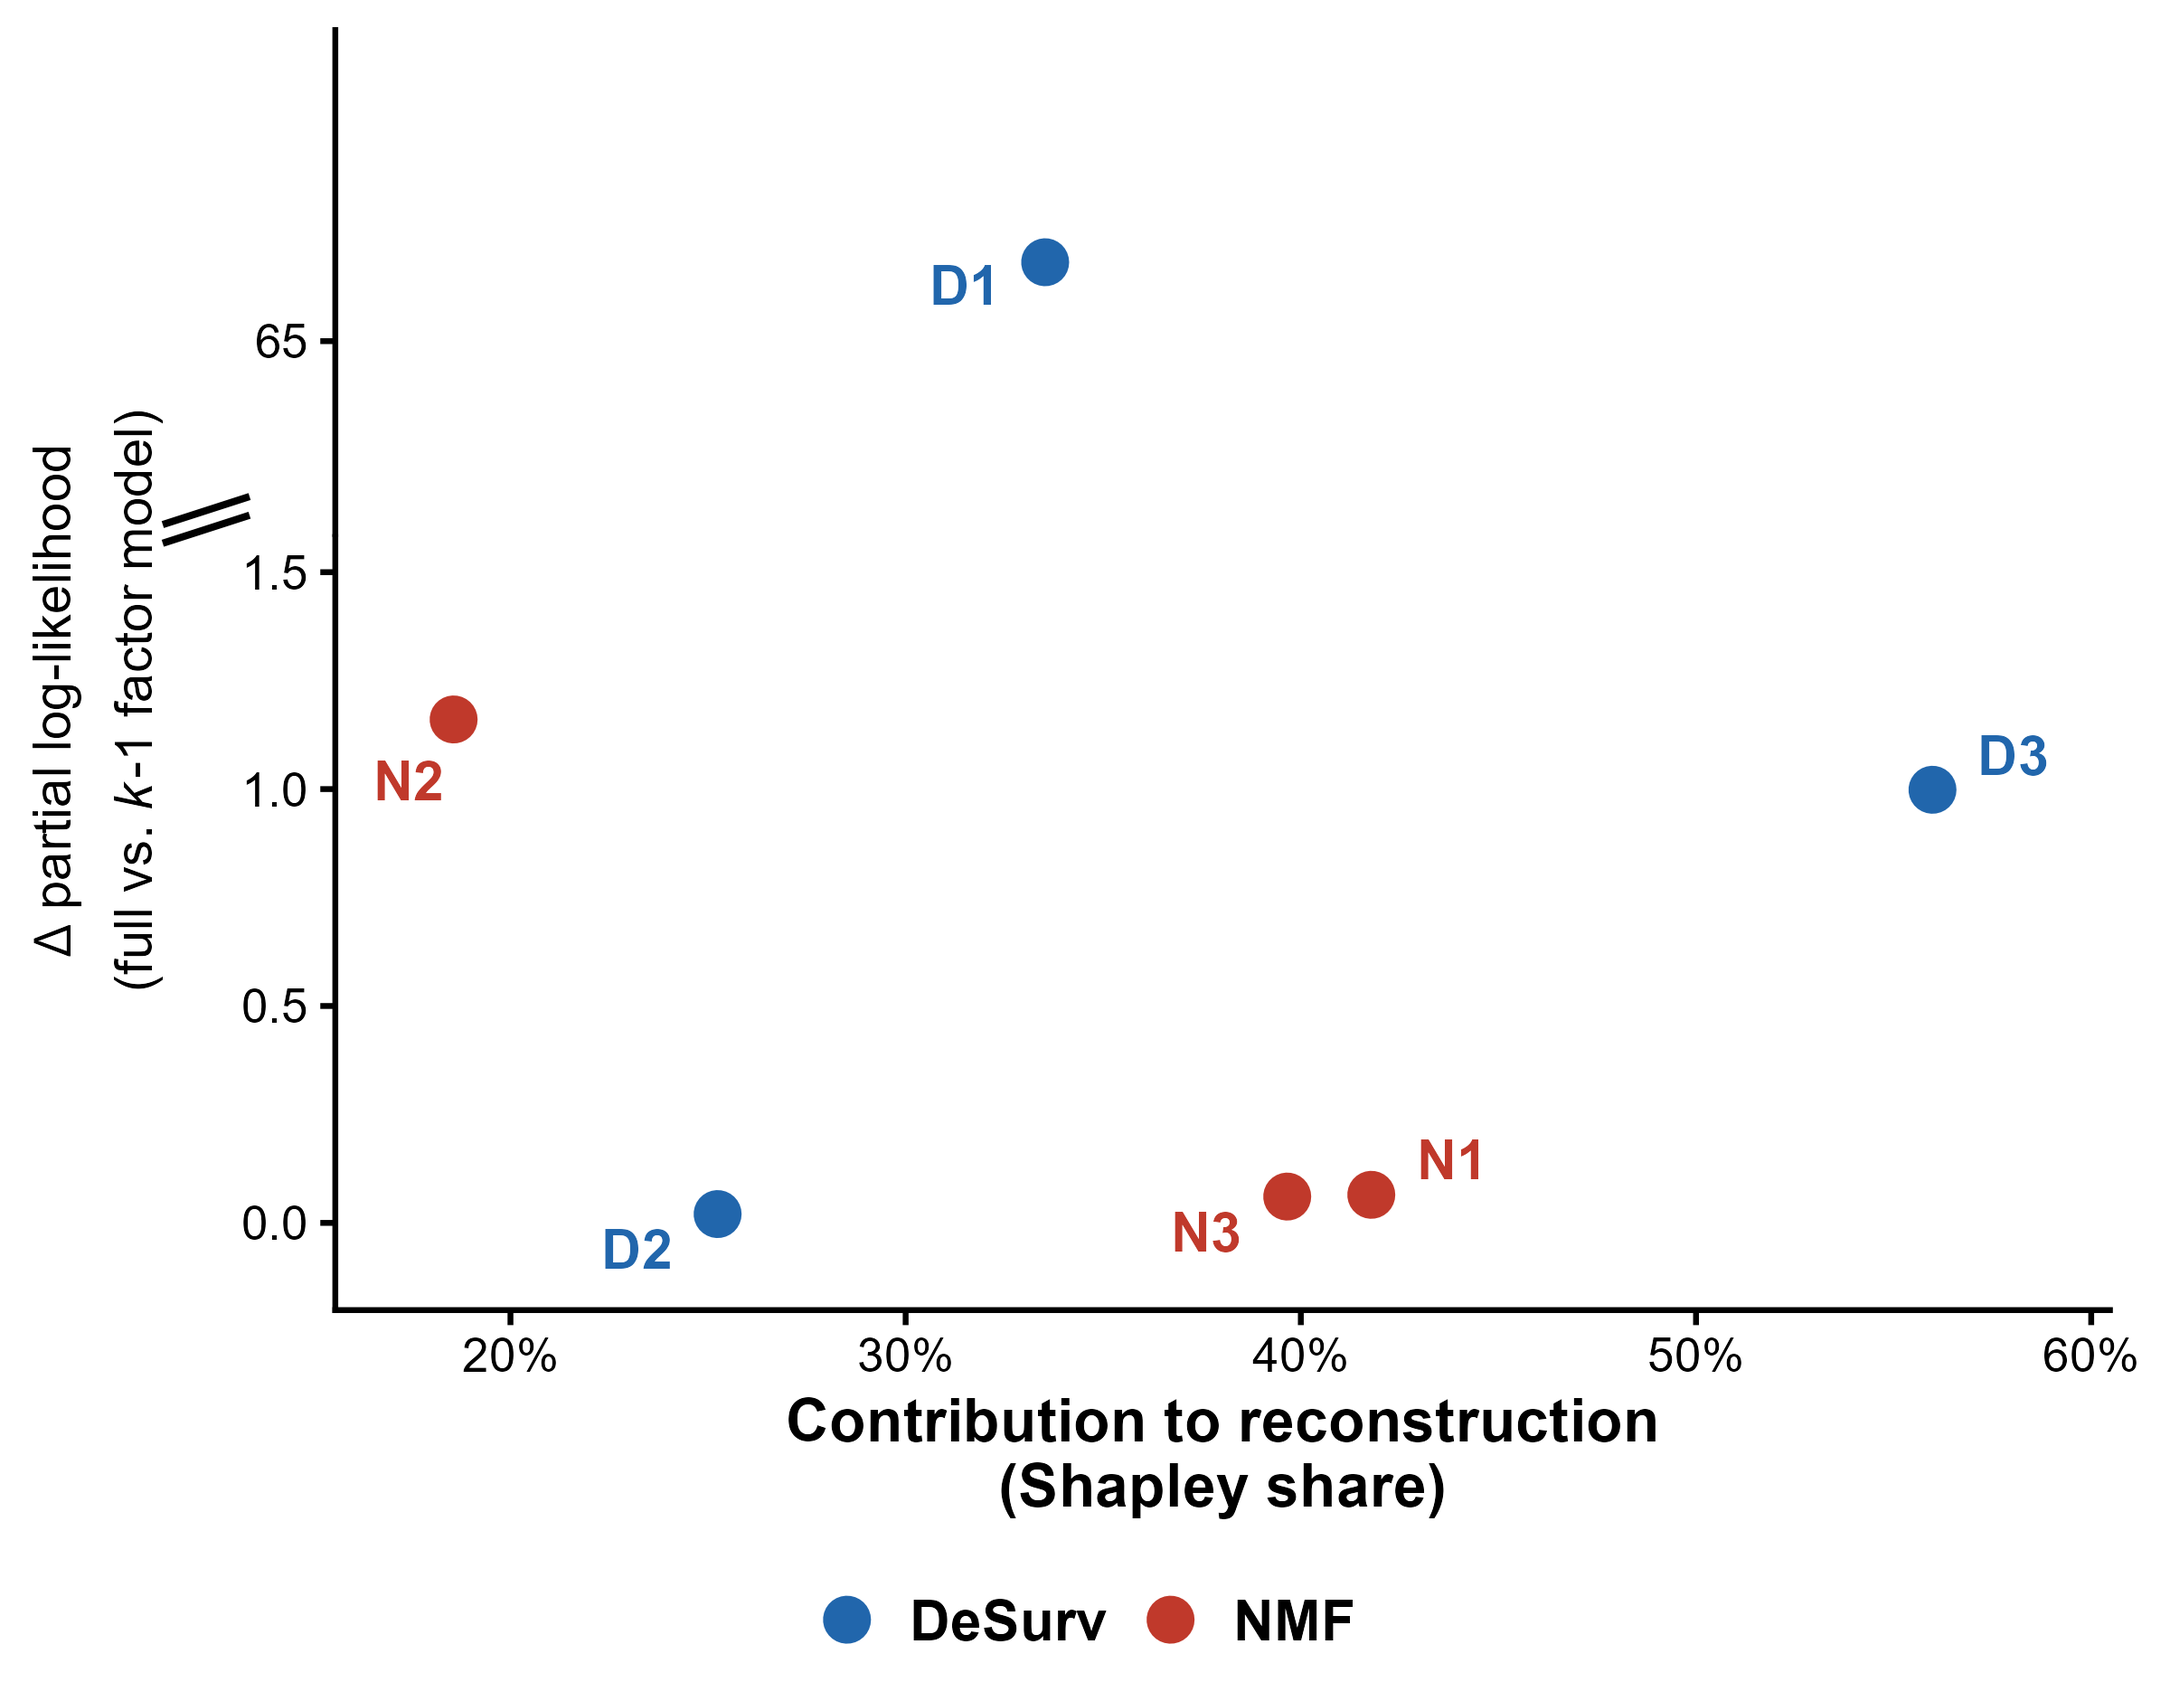
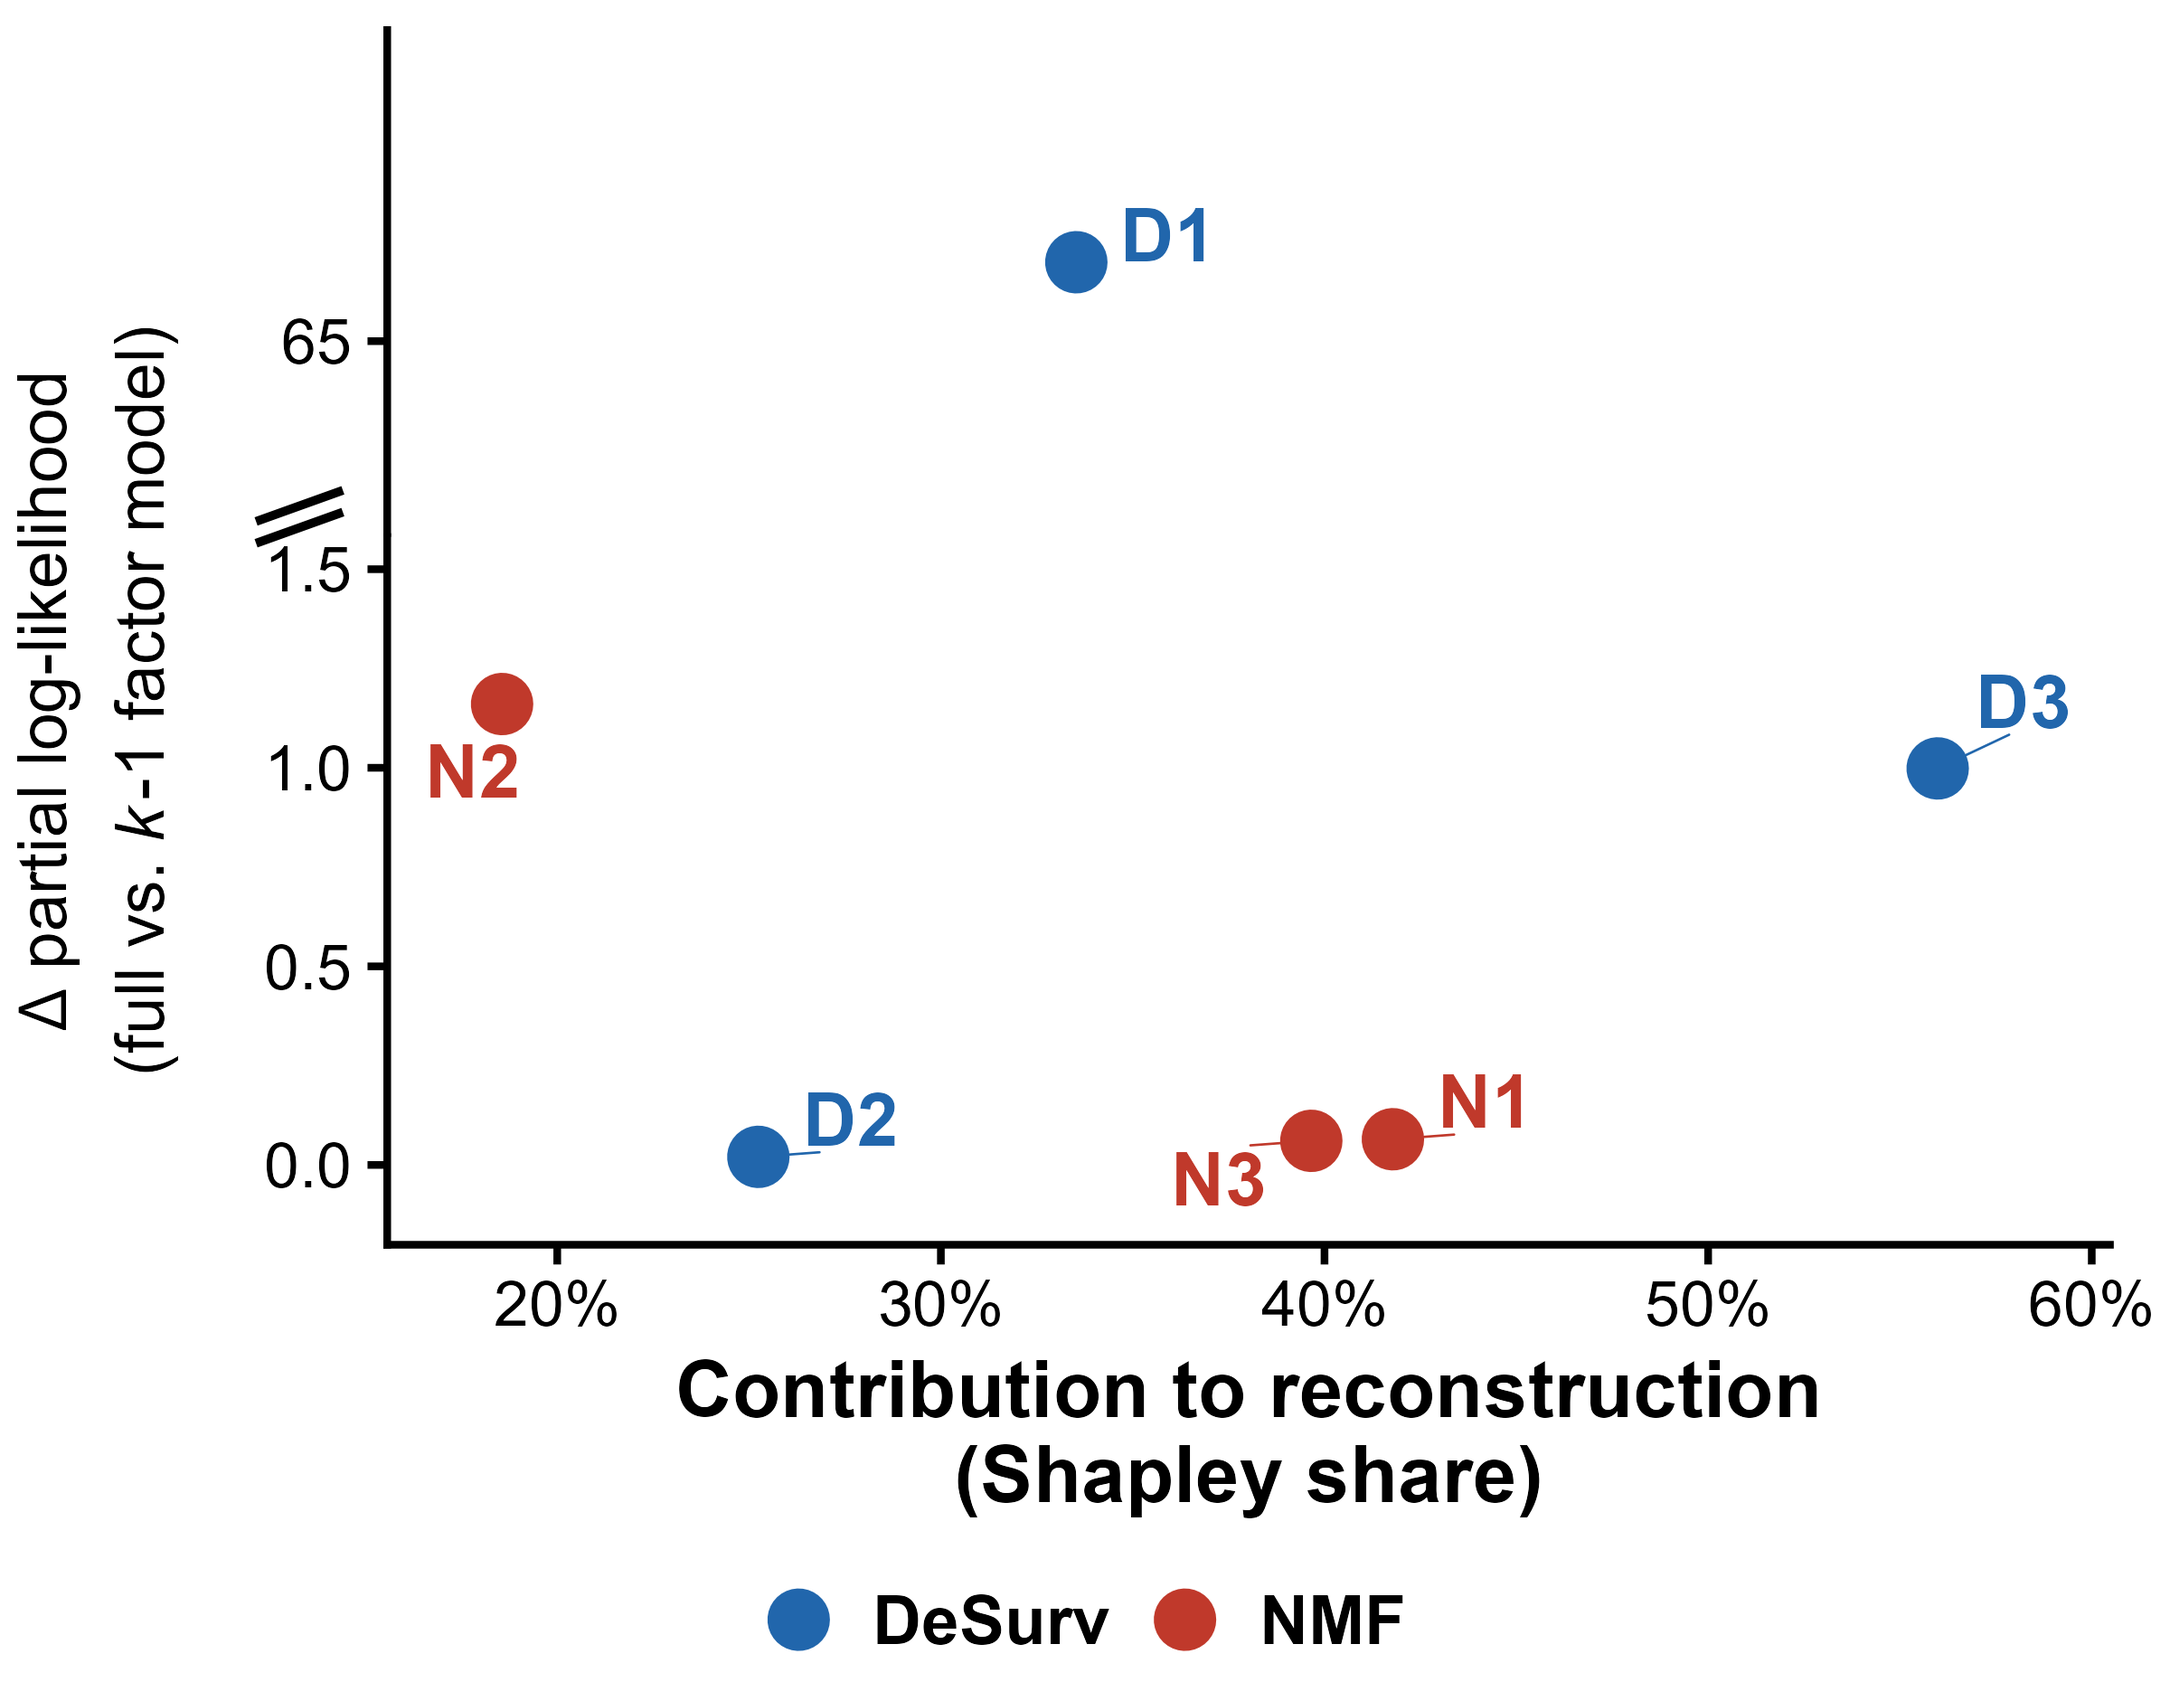
Enlarge Fig 3C fonts, align break marks to y-axis, reorder + retitle slide
Bigger plot fonts; axis-break slashes now straddle the y-axis line. Slide
retitled to DeSurv concentrates survival signal into one factor, and moved
ahead of the factor-structure heatmap slide.

diff --git a/defense.html b/defense.html
@@ -307,11 +307,11 @@ Amber M. Young
           display:block!important;
       }</style></aside>
 </section>
-<section id="supervision-reorganizes-pdac-factors-around-prognosis" class="slide level2">
-<h2>Supervision reorganizes PDAC factors around prognosis</h2>
+<section id="desurv-concentrates-survival-signal-into-one-factor" class="slide level2">
+<h2>DeSurv concentrates survival signal into one factor</h2>
 
-<img data-src="figures/defense/fig3_AB_heatmaps.png" style="width:96.0%" class="r-stretch"><aside class="notes">
-<p>Same data, same rank k=3, different factors. DeSurv’s D1 fuses Classical tumor <em>and</em> restCAF stroma into one prognostic axis — a tumor–stroma coupling, not a pure tumor signal. Unsupervised NMF instead burns a whole factor (N2) on exocrine/ADEX — normal-pancreas contamination and purity — and splits the rest across N1/N3. Supervision rebuilds what each factor captures; D1 has no clean NMF counterpart.</p>
+<img data-src="figures/defense/new_3c_reconstruction.png" style="width:55.0%" class="r-stretch"><aside class="notes">
+<p>This is the slide-4 thesis made empirical in PDAC. x-axis: each factor’s share of reconstruction (normalized Shapley value, partitions and sums to 100%); y-axis: its survival contribution (drop in partial log-likelihood when removed). DeSurv’s D1 sits top-left — it carries essentially all the survival signal (Δℓ ≈ 66) at only a modest reconstruction share. The factors that reconstruct PDAC best — DeSurv’s D3 and NMF’s N1/N3 at the right — contribute almost nothing to survival. Reconstruction and prognosis are decoupled, so an unsupervised, reconstruction-driven choice walks right past the prognostic factor.</p>
 <style type="text/css">
         span.MJX_Assistive_MathML {
           position:absolute!important;
@@ -324,11 +324,11 @@ Amber M. Young
           display:block!important;
       }</style></aside>
 </section>
-<section id="pdacs-best-reconstructing-factors-carry-the-least-survival-signal" class="slide level2">
-<h2>PDAC’s best-reconstructing factors carry the least survival signal</h2>
+<section id="supervision-reorganizes-pdac-factors-around-prognosis" class="slide level2">
+<h2>Supervision reorganizes PDAC factors around prognosis</h2>
 
-<img data-src="figures/defense/new_3c_reconstruction.png" style="width:55.0%" class="r-stretch"><aside class="notes">
-<p>This is the slide-4 thesis made empirical in PDAC. x-axis: each factor’s share of reconstruction (normalized Shapley value, partitions and sums to 100%); y-axis: its survival contribution (drop in partial log-likelihood when removed). DeSurv’s D1 sits top-left — it carries essentially all the survival signal (Δℓ ≈ 66) at only a modest reconstruction share. The factors that reconstruct PDAC best — DeSurv’s D3 and NMF’s N1/N3 at the right — contribute almost nothing to survival. Reconstruction and prognosis are decoupled, so an unsupervised, reconstruction-driven choice walks right past the prognostic factor.</p>
+<img data-src="figures/defense/fig3_AB_heatmaps.png" style="width:96.0%" class="r-stretch"><aside class="notes">
+<p>Same data, same rank k=3, different factors. DeSurv’s D1 fuses Classical tumor <em>and</em> restCAF stroma into one prognostic axis — a tumor–stroma coupling, not a pure tumor signal. Unsupervised NMF instead burns a whole factor (N2) on exocrine/ADEX — normal-pancreas contamination and purity — and splits the rest across N1/N3. Supervision rebuilds what each factor captures; D1 has no clean NMF counterpart.</p>
 <style type="text/css">
         span.MJX_Assistive_MathML {
           position:absolute!important;
